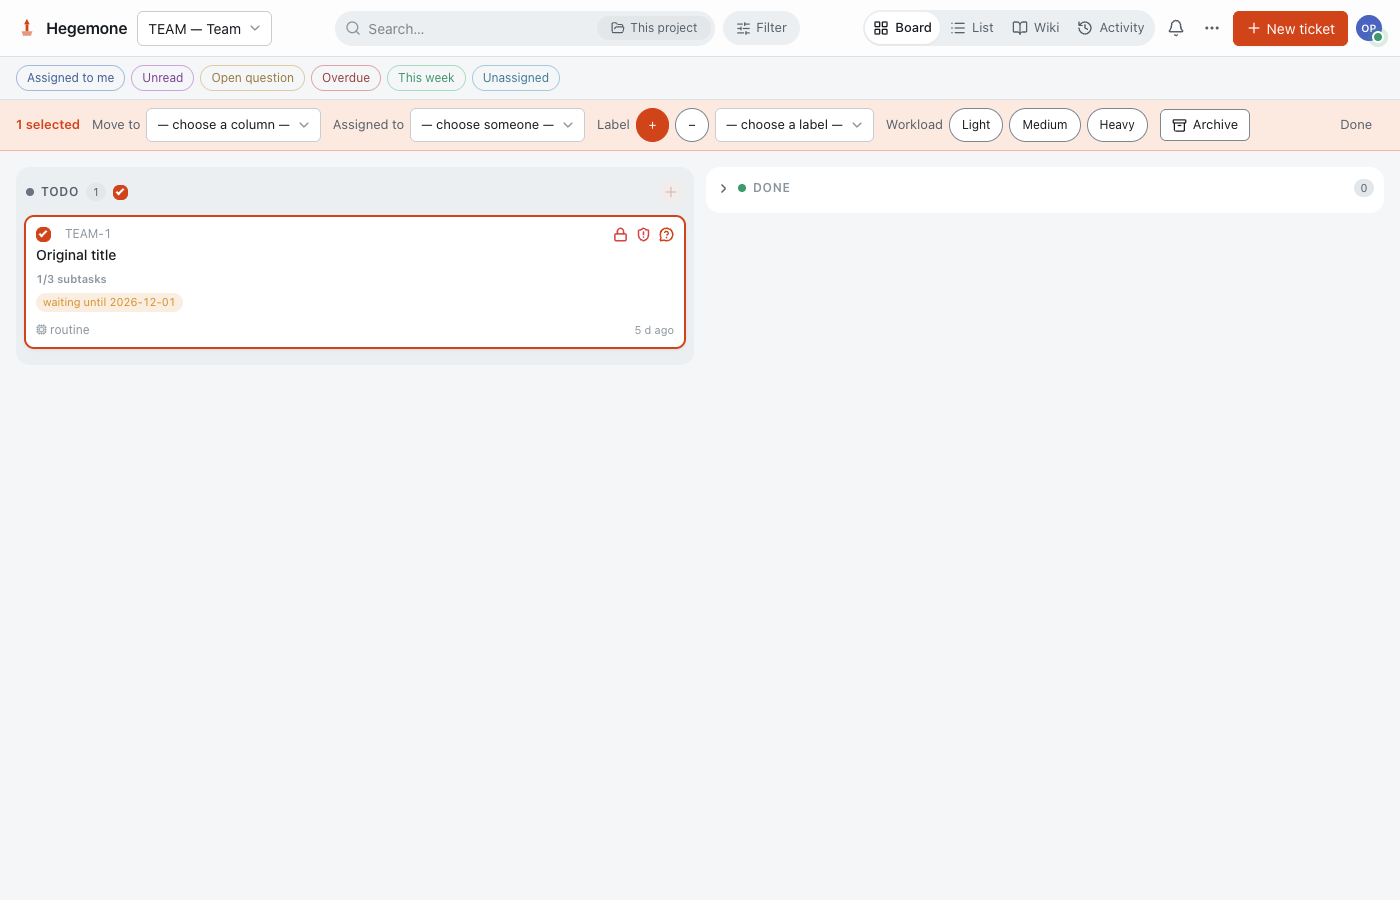
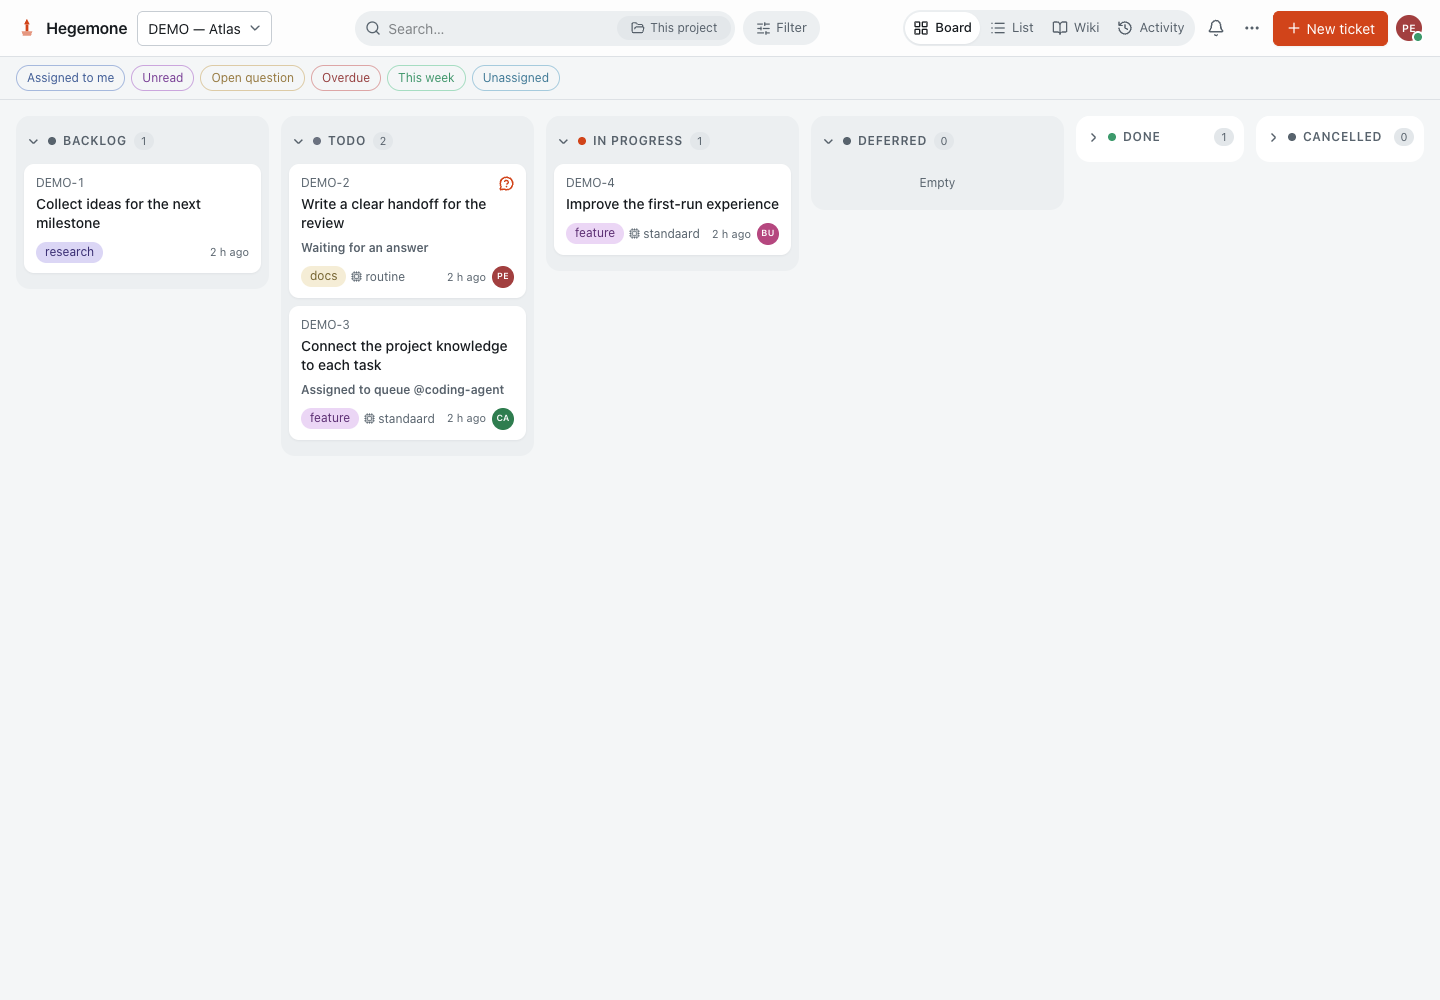
docs(readme): show the board and knowledge base as distinct examples
Replace the second language variant of the same board with a knowledge-base
screenshot. Refresh the board image and use fictional tickets, pages and people
in both captures. Keep the bundled documentation in sync.

Both images were visually reviewed and contain no embedded text or EXIF
metadata. The public-boundary and translation checks pass.

diff --git a/README.md b/README.md
@@ -187,11 +187,10 @@ Third-party licenses and copyright notices are preserved in [THIRD_PARTY.md](THI
 
 ## Screenshots
 
-The board in English and Dutch, using synthetic tickets and a two-column example
-project. New projects start with the six default columns described above.
+The project board and knowledge base, using fictional tickets, pages and people.
 
-![English board with bulk selection](screenshots/board-en.png)
+![Project board with tickets assigned to people and agents](screenshots/board-en.png)
 
-![Dutch board with the same selection](screenshots/board-nl.png)
+![Knowledge base with page navigation, article outline and references](screenshots/wiki-en.png)
 
 For an existing systemd installation, see [native release deployment](NATIVE_DEPLOYMENT.md). Host profiles and secrets stay outside the repository.

diff --git a/docs/hegemone/README.md b/docs/hegemone/README.md
@@ -187,11 +187,10 @@ Third-party licenses and copyright notices are preserved in [THIRD_PARTY.md](THI
 
 ## Screenshots
 
-The board in English and Dutch, using synthetic tickets and a two-column example
-project. New projects start with the six default columns described above.
+The project board and knowledge base, using fictional tickets, pages and people.
 
-![English board with bulk selection](screenshots/board-en.png)
+![Project board with tickets assigned to people and agents](screenshots/board-en.png)
 
-![Dutch board with the same selection](screenshots/board-nl.png)
+![Knowledge base with page navigation, article outline and references](screenshots/wiki-en.png)
 
 For an existing systemd installation, see [native release deployment](NATIVE_DEPLOYMENT.md). Host profiles and secrets stay outside the repository.
